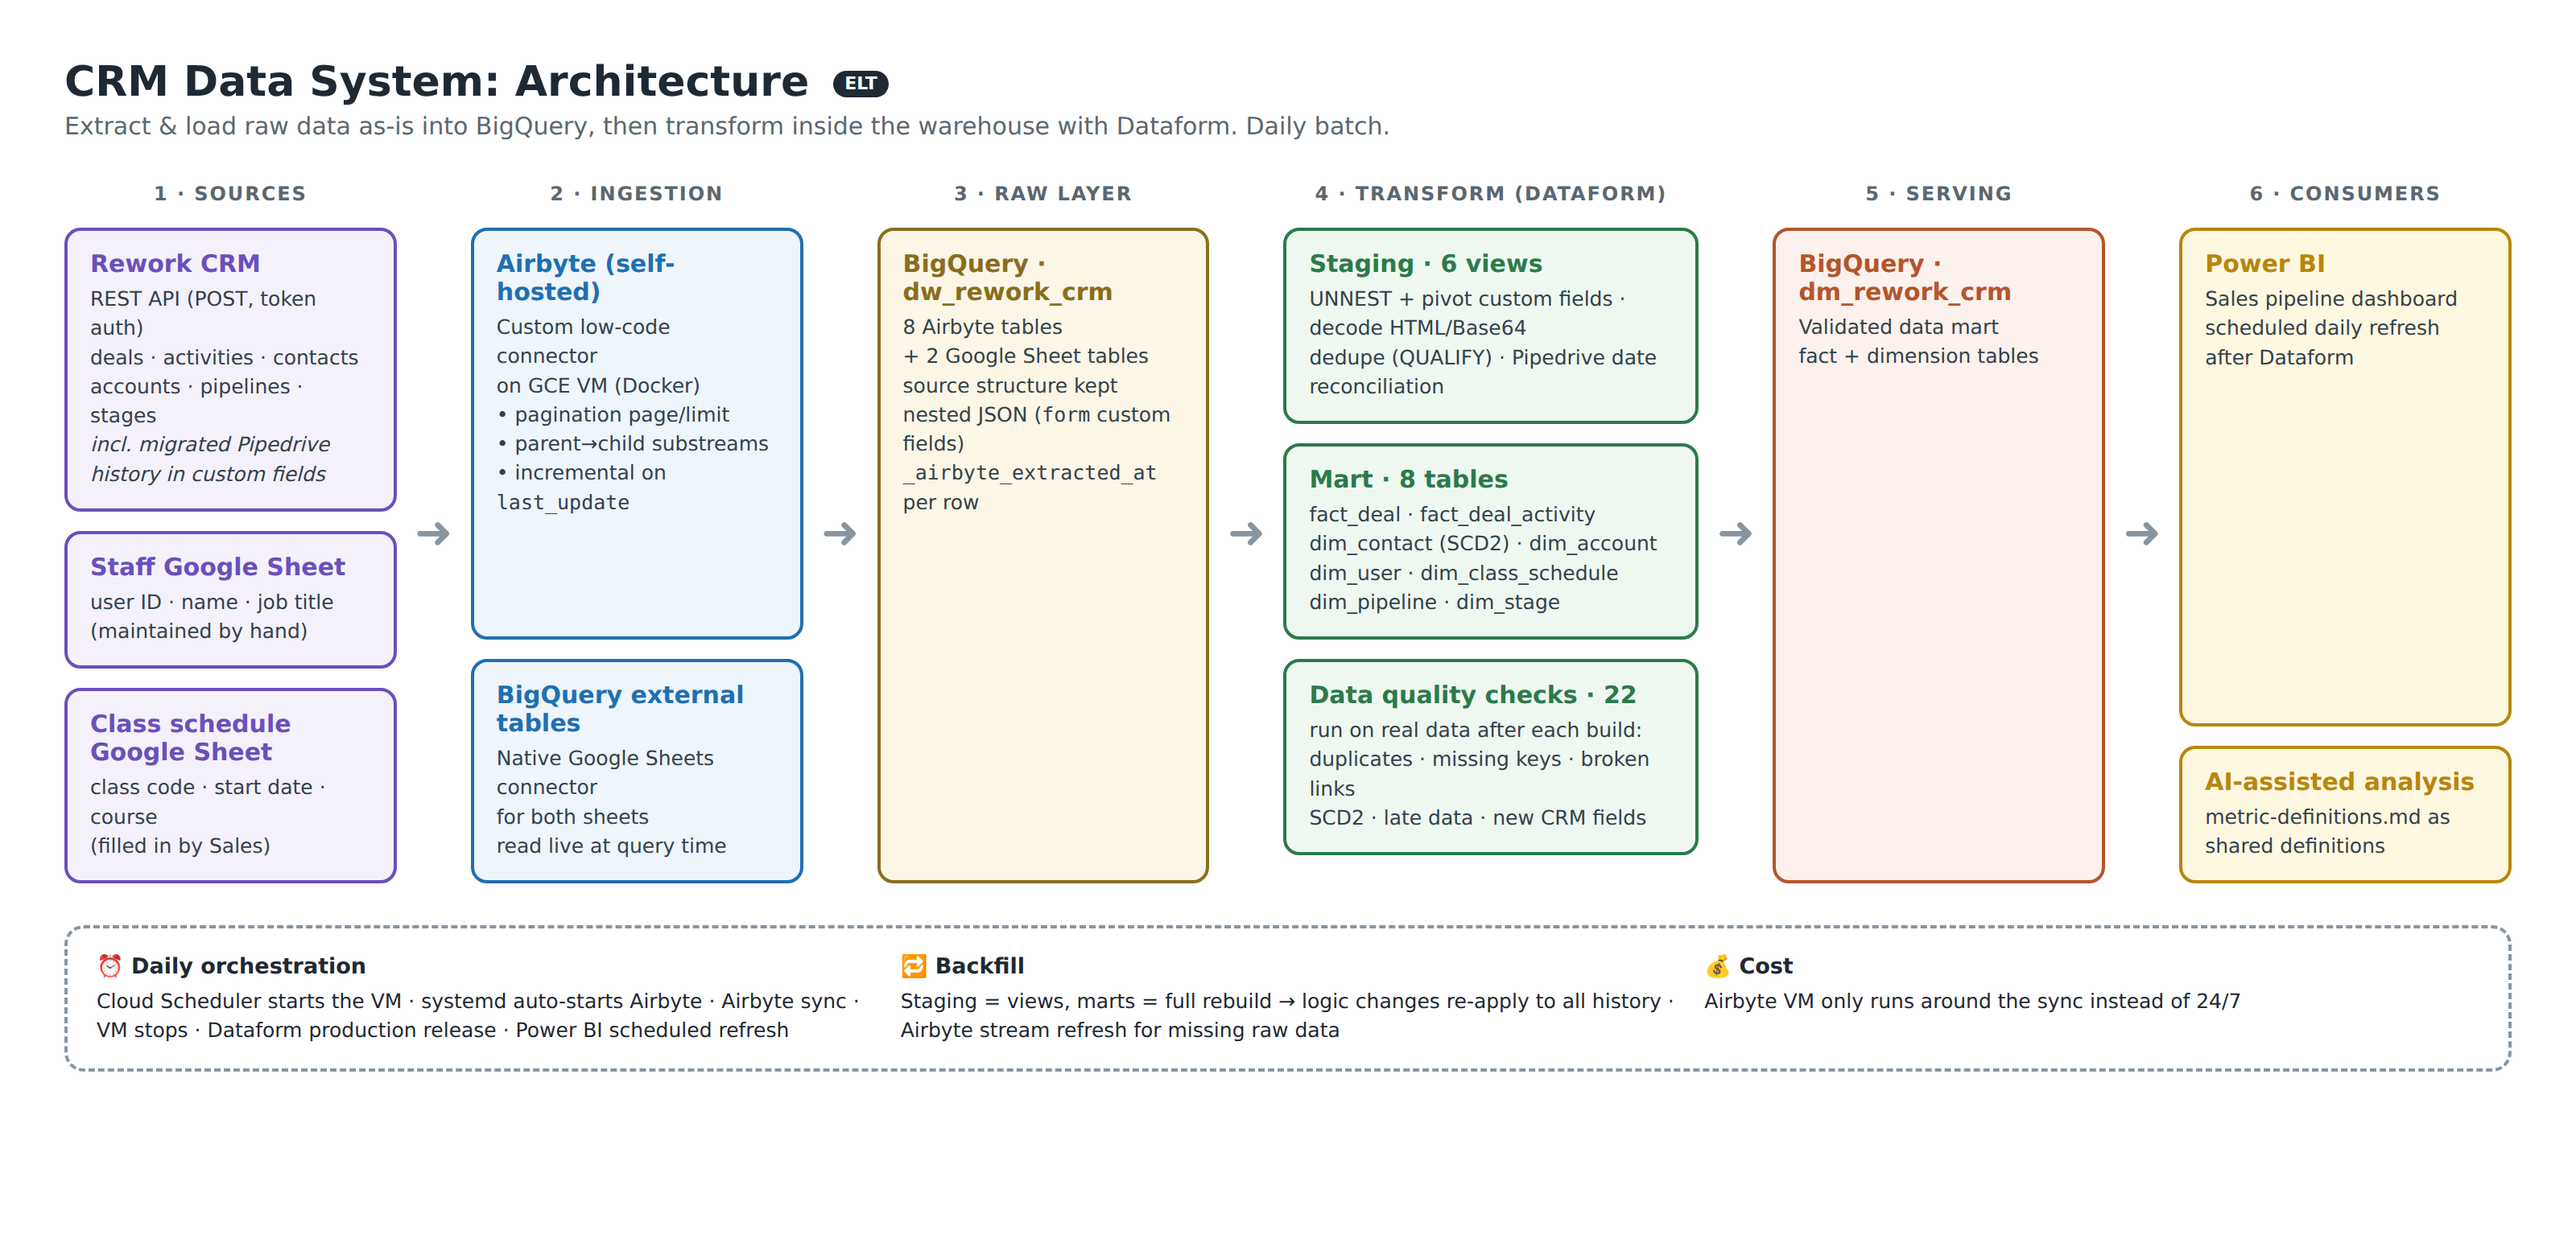
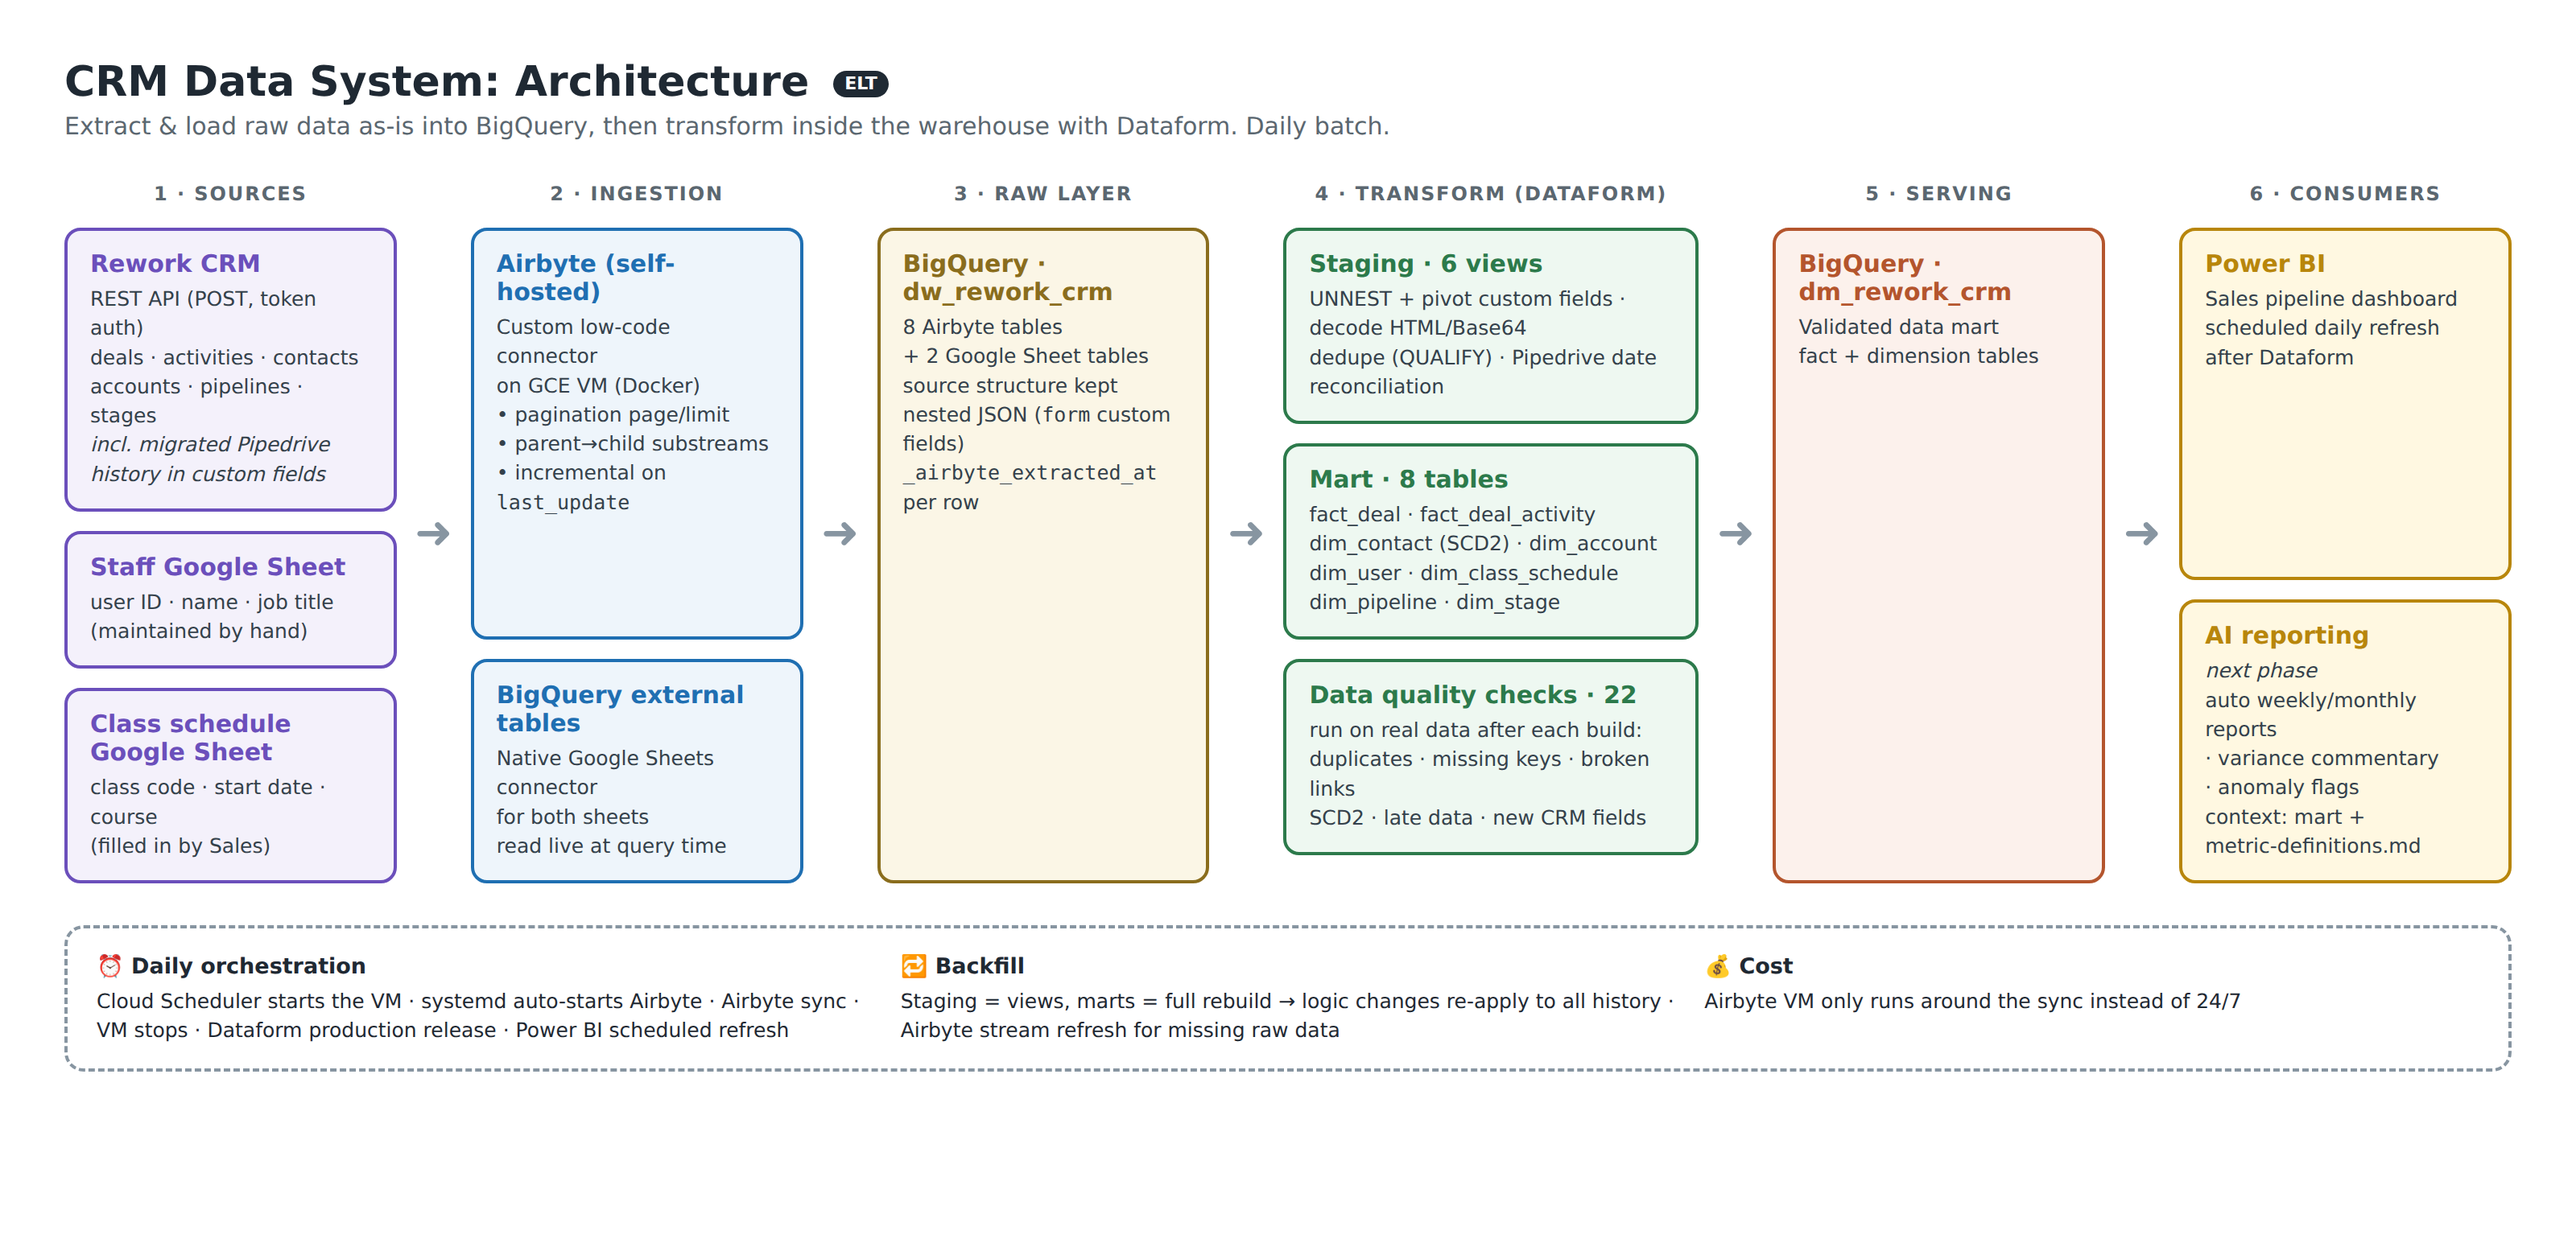
Replace AI-assisted analysis with AI reporting (next phase)
Claude-Session: https://claude.ai/code/session_01RJTQ4eRzCiHnHntdpycA9C

Changed region(s): [[0.8438, 0.4645, 1.0, 0.6813]]

diff --git a/docs/architecture.html b/docs/architecture.html
@@ -48,7 +48,7 @@ h1{font-size:26px;margin-bottom:4px}
  <div class="arrow">➜</div>
  <div class="col"><div class="lane">6 · Consumers</div>
   <div class="box bi grow"><b>Power BI</b><span>Sales pipeline dashboard<br>scheduled daily refresh<br>after Dataform</span></div>
-  <div class="box bi"><b>AI-assisted analysis</b><span>metric-definitions.md as shared definitions</span></div>
+  <div class="box bi"><b>AI reporting</b><span><i>next phase</i><br>auto weekly/monthly reports<br>· variance commentary<br>· anomaly flags<br>context: mart +<br>metric-definitions.md</span></div>
  </div>
 </div>
 <div class="ops">

diff --git a/README.md b/README.md
@@ -113,6 +113,7 @@ Runs **daily at 12:00**: VM start → Airbyte sync → VM stop → Dataform prod
 ## Planned / in progress
 
 - [ ] Add the `dim_class_schedule` source and model to `transform/`
+- [ ] **AI report automation (next phase):** weekly/monthly reports are still built by hand (pull numbers, paste into sheets/slides, write commentary on changes), so they take time, are often late, and anomalies are only caught when someone happens to notice. Next step: generate them automatically from this warehouse, using [metric-definitions.md](docs/metric-definitions.md) as the AI's context
 - [ ] Run the 22 assertions on production data and record results
 - [ ] Measure data latency and monthly cost (queries in [`orchestration/sql/`](orchestration/sql/))
 - [ ] Document the exact schedule times, alert and access setup, with screenshots in [`docs/proof-of-running/`](docs/proof-of-running/)
